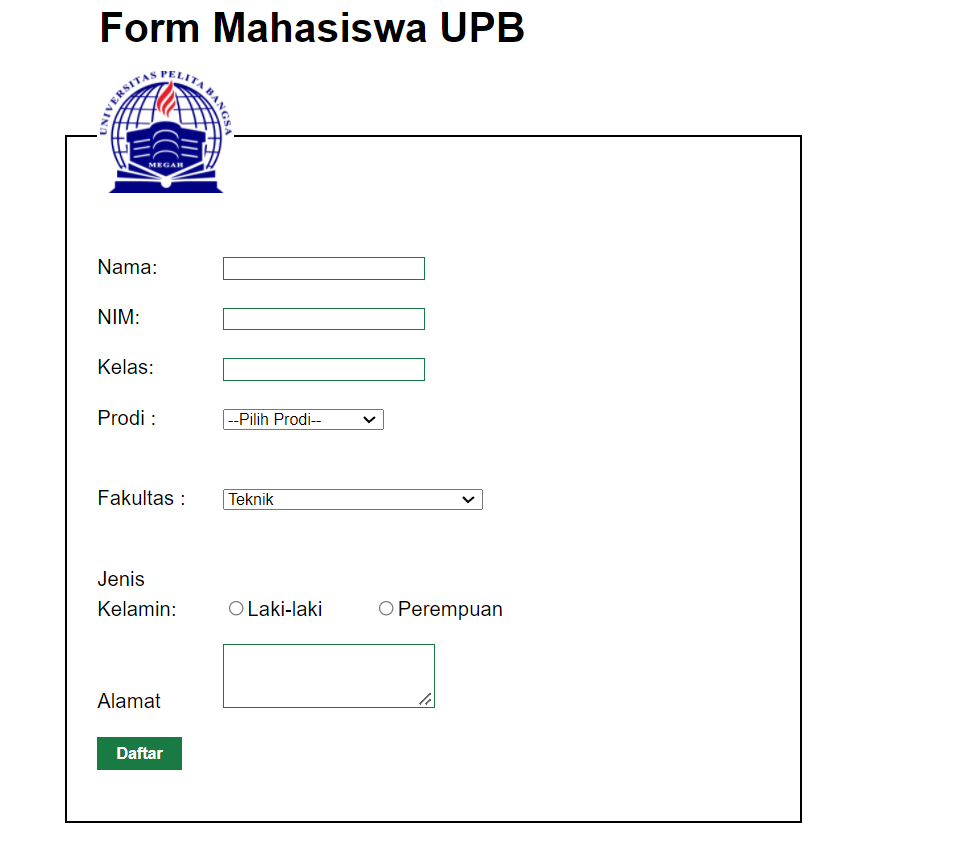
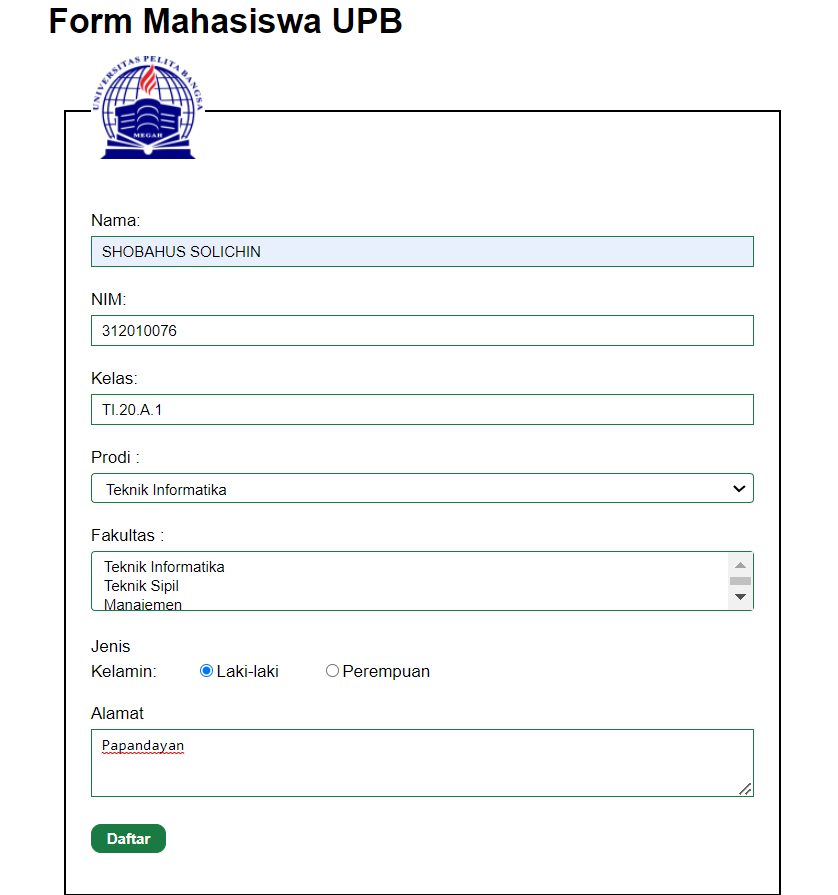
Update README

diff --git a/form-dropdown.html b/form-dropdown.html
@@ -4,21 +4,11 @@
     <meta charset="utf-8">
     <meta name="viewport" content="width=device-width, initial-scale=1">
     <title>Form dropdown & Listbox with multiple selection</title>
-    <link rel="stylesheet" type="text/css" href="assets/css/style.css">
+    <link rel="stylesheet" type="text/css" href="CSS/style.css">
     <style>
       h1{
           text-align: center;;
       }
-      body{
-            margin: 2% auto;
-            width: 40%;
-            font-family: arial;
-            font-size: 17px;
-            line-height: 25px;
-          }
-      .logo{
-	          width: 110px;
-          }
       form fieldset{
           border-style: solid;
           border-color: rgb(0, 0, 0);   
@@ -71,7 +61,6 @@
           <input type="text" id="kelas" name="kelas">
       </p>
       <p>
-        
         <label for="Prodi">Prodi :</label>
         <select name="Prodi">
           <option value="" selected="selected">--Pilih Prodi--</option>
@@ -79,19 +68,15 @@
           <option value="ts">Teknik Sipil</option>
           <option value="mj">Manajemen</option>
         </select>
-      <p><br>
-
-        <label for="fakultas">Fakultas :</label>
-        <select name="drawfs" id="Fakultas">
-            <option value='' selected>Pilih Fakultas</option>
-            <option value='TI'>Teknik Industri</option>
-            <option value='FEB'>Ekonomi dan Bisnis</option>
-            <option value='FIPHUM'>Ilmu Pendidikan dan Humaniora</option>
-            <option value='FAI'>Agama Islam</option>
-            <option value='FT'selected='selected'>Teknik</option>
+      <p>
+        <label for="jurusan">Fakultas :</label>
+        <select multiple name="drawfs" id="jurusan">
+          <option value="ti">Teknik Informatika</option>
+          <option value="ts">Teknik Sipil</option>
+          <option value="mj">Manajemen</option>
         </select>
     </p>
-    <p><br>
+    <p>
        <label>Jenis Kelamin:</label>
        <input id="jk_l" type="radio" name="kelamin" value="L" /><label
 for="jk_l">Laki-laki</label>
